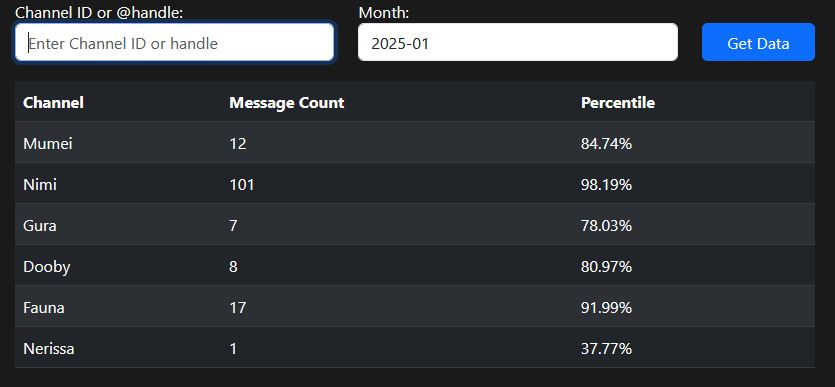
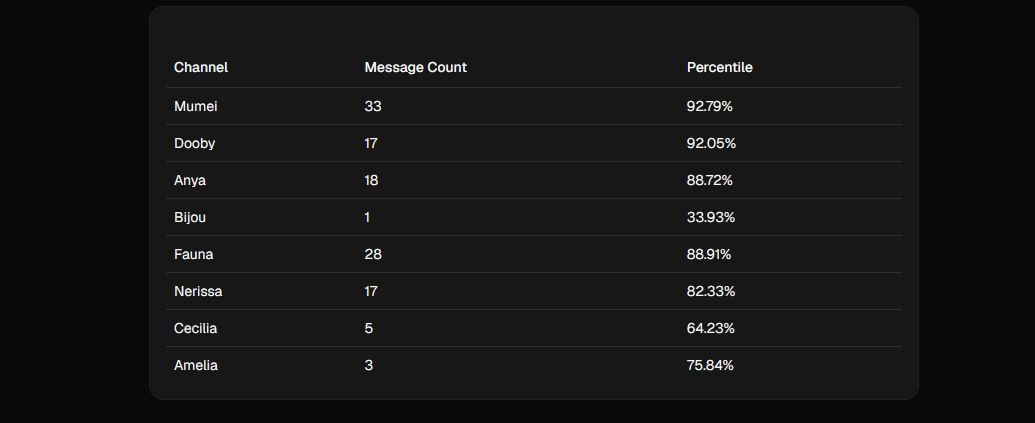
Update frontpage thumbnails, Improve active live chat handling

diff --git a/handlers/download.py b/handlers/download.py
@@ -18,8 +18,18 @@ DOWNLOAD_LOCK_KEY = 744_211_988
 BUCKET = os.environ["RAW_BUCKET"]
 RETRY_QUEUE = os.environ.get("DOWNLOAD_RETRY_QUEUE_URL")
 PERMANENT = ("members", "not available", "removed", "private", "no chat replay",
-             "no continuation", "live event", "will begin", "age-restricted",
-             "age restricted", "confirm your age")
+             "age-restricted", "age restricted", "confirm your age")
+LIVE_COOLDOWN_ERRORS = (
+    "expecting property name enclosed in double quotes",
+    "expecting value: line 1 column 1",
+    "unterminated string starting at",
+    "ytinitialdata not found",
+    "no continuation found",
+    "non-json payload",
+    "live event",
+    "will begin",
+    "page needs to be reloaded",
+)
 # Chat replay pagination ending is the authoritative completion signal. This
 # threshold only controls a diagnostic warning; quiet tails never fail a job.
 REPLAY_END_SILENCE_SECONDS = 15 * 60
@@ -121,6 +131,9 @@ def _process(msg, context):
         cur.execute("""SELECT j.status, j.continuation, j.part_count, j.attempts,
                               j.last_offset_s, j.video_duration_s,
                               COALESCE(j.messages_downloaded, 0),
+                              j.next_attempt_at,
+                              (j.next_attempt_at IS NOT NULL
+                               AND j.next_attempt_at > NOW()) AS cooling_down,
                               EXTRACT(EPOCH FROM (
                                   v.end_time - COALESCE(
                                       v.duration,
@@ -135,11 +148,25 @@ def _process(msg, context):
             log.warning("no job row; dropping", extra={"video_id": video_id})
             conn.rollback(); return
         (status, continuation, part_count, attempts, last_offset, duration,
-         msgs_before, stored_start_ts) = row
+         msgs_before, next_attempt_at, cooling_down, stored_start_ts) = row
         if status in ("done", "failed", "skipped", "ingesting", "downloaded"):
             log.info("already past download stage", extra={"video_id": video_id,
                                                            "status": status})
             conn.rollback(); return
+        if cooling_down:
+            # This can be an SQS message sent just before a scanner or an
+            # earlier invocation parked the stream.  Consume it and let the
+            # month dispatcher release the durable row after the deadline.
+            cur.execute("""UPDATE ingest_jobs
+                           SET dispatched_at=NULL, lease_id=NULL,
+                               updated_at=NOW()
+                           WHERE video_id=%s AND status='pending'""",
+                        (video_id,))
+            conn.commit()
+            log.info("live stream still cooling down",
+                     extra={"video_id": video_id,
+                            "next_attempt_at": str(next_attempt_at)})
+            return
         # Taking the lease is what makes any previous owner a zombie.
         cur.execute("""UPDATE ingest_jobs
                        SET status='downloading', attempts = attempts + 1,
@@ -155,7 +182,10 @@ def _process(msg, context):
                             duration=duration,
                             player_offset_s=last_offset)
     except Exception as e:
-        return _handle_error(conn, sqs, video_id, channel_id, msg, e)
+        return _handle_error(
+            conn, sqs, video_id, channel_id, msg, e,
+            live_candidate=(part_count == 0 and msgs_before == 0),
+            download_attempts=attempts + 1)
     if not duration and getattr(replay, "duration", None):
         duration = duration or replay.duration
         with conn.cursor() as cur:
@@ -226,7 +256,10 @@ def _process(msg, context):
         return _handle_error(
             conn, sqs, video_id, channel_id,
             {**msg, "video_start_ts": replay.video_start_ts, "resumed": True},
-            e, reset_checkpoint=stale_checkpoint)
+            e, reset_checkpoint=stale_checkpoint,
+            live_candidate=(part_count == 0 and msgs_before == 0
+                            and written == 0 and not buf),
+            download_attempts=attempts + 1)
     if buf:
         written += _flush(s3, channel_id, video_id, part_count, buf)
         part_count += 1
@@ -239,9 +272,10 @@ def _process(msg, context):
                            "quiet_tail_s": int(duration - last_offset)})
     with conn.cursor() as cur:
         cur.execute("""UPDATE ingest_jobs
-                       SET status='downloaded', continuation=NULL, part_count=%s,
+                           SET status='downloaded', continuation=NULL, part_count=%s,
                            last_offset_s=%s, messages_downloaded=%s,
-                           lease_id=NULL, updated_at=NOW(), last_error=NULL
+                           lease_id=NULL, next_attempt_at=NULL,
+                           updated_at=NOW(), last_error=NULL
                        WHERE video_id=%s AND lease_id=%s""",
                     (part_count, last_offset, msgs_before + written, video_id, lease))
         if cur.rowcount == 0:
@@ -290,9 +324,49 @@ def _checkpoint(conn, video_id, lease, continuation, part_count, last_offset, me
     if lost:
         raise LeaseLost(video_id)
 def _handle_error(conn, sqs, video_id, channel_id, msg, exc,
-                  reset_checkpoint=False):
+                  reset_checkpoint=False, live_candidate=False,
+                  download_attempts=0):
     text = str(exc)
-    permanent = any(k in text.lower() for k in PERMANENT)
+    lower = text.lower()
+    if live_candidate and any(marker in lower for marker in LIVE_COOLDOWN_ERRORS):
+        max_cooldowns = max(1, setting("live_cooldown_max_attempts", 6, int))
+        if download_attempts >= max_cooldowns:
+            reason = (f"persistently unavailable live/upcoming chat after "
+                      f"{download_attempts} checks: {text}")
+            with conn.cursor() as cur:
+                cur.execute("""UPDATE ingest_jobs
+                               SET status='skipped', last_error=%s,
+                                   skip_reason=%s, lease_id=NULL,
+                                   next_attempt_at=NULL, completed_at=NOW(),
+                                   updated_at=NOW()
+                               WHERE video_id=%s""",
+                            (reason[:1000], reason[:200], video_id))
+            conn.commit()
+            emit({"DownloadsSkipped": (1, COUNT)}, {"Stage": "download"},
+                 video_id=video_id, error=reason[:200])
+            log.warning("persistently unavailable stream skipped",
+                        extra={"video_id": video_id,
+                               "checks": download_attempts,
+                               "error": text[:200]})
+            return
+        minutes = max(5, setting("live_retry_cooldown_minutes", 120, int))
+        with conn.cursor() as cur:
+            cur.execute("""UPDATE ingest_jobs
+                           SET status='pending', dispatched_at=NULL, lease_id=NULL,
+                               next_attempt_at=NOW() + (%s * INTERVAL '1 minute'),
+                               continuation=NULL, part_count=0, last_offset_s=0,
+                               messages_downloaded=0, last_error=%s,
+                               updated_at=NOW()
+                           WHERE video_id=%s""",
+                        (minutes, text[:1000], video_id))
+        conn.commit()
+        emit({"DownloadsCoolingDown": (1, COUNT)}, {"Stage": "download"},
+             video_id=video_id, cooldown_minutes=minutes, error=text[:200])
+        log.info("active or upcoming chat sent to cooldown",
+                 extra={"video_id": video_id, "cooldown_minutes": minutes,
+                        "error": text[:200]})
+        return
+    permanent = any(k in lower for k in PERMANENT)
     max_retries = setting("max_retries", 5, int)
     # A stale checkpoint repair starts a fresh retry budget because the prior
     # attempts all exercised the same invalid continuation.
@@ -301,7 +375,8 @@ def _handle_error(conn, sqs, video_id, channel_id, msg, exc,
         with conn.cursor() as cur:
             cur.execute("""UPDATE ingest_jobs
                            SET status=%s, last_error=%s, lease_id=NULL,
-                               updated_at=NOW(), completed_at=NOW(), skip_reason=%s
+                               next_attempt_at=NULL, updated_at=NOW(),
+                               completed_at=NOW(), skip_reason=%s
                            WHERE video_id=%s""",
                         ("skipped" if permanent else "failed", text[:1000],
                          text[:200] if permanent else None, video_id))
@@ -320,13 +395,15 @@ def _handle_error(conn, sqs, video_id, channel_id, msg, exc,
             # any higher stale objects are ignored by the new part_count.
             cur.execute("""UPDATE ingest_jobs
                            SET status='pending', last_error=%s, lease_id=NULL,
+                               next_attempt_at=NULL,
                                continuation=NULL, part_count=0,
                                last_offset_s=0, messages_downloaded=0,
                                updated_at=NOW() WHERE video_id=%s""",
                         (text[:1000], video_id))
         else:
             cur.execute("""UPDATE ingest_jobs SET status='pending', last_error=%s,
-                           lease_id=NULL, updated_at=NOW() WHERE video_id=%s""",
+                           lease_id=NULL, next_attempt_at=NULL,
+                           updated_at=NOW() WHERE video_id=%s""",
                         (text[:1000], video_id))
     conn.commit()
     # Keep the message on whichever lane it arrived on.

diff --git a/handlers/scan.py b/handlers/scan.py
@@ -135,6 +135,12 @@ def _scan(msg, context):
                         break
                     newest = max(newest, prior["end_time"])
                     continue
+                if (prior and prior["status"] == "skipped"
+                        and not prior["end_time"] and not recheck_skip):
+                    # Terminal non-starters have no trustworthy end time and
+                    # therefore no videos row. Do not spend a metadata lookup
+                    # on them during every later discovery pass.
+                    continue
                 try:
                     video_data = cd.get_video_data(video_id=video_id)
                 except Exception as e:
@@ -144,6 +150,19 @@ def _scan(msg, context):
                     log.warning("get_video_data failed",
                                 extra={"video_id": video_id, "error": str(e)[:200]})
                     lookup_errors.append(f"{video_id}: {str(e)[:160]}")
+                    continue
+                disposition, reason = _stream_disposition(video_data, cfg)
+                if disposition == "skip":
+                    _mark_skipped(conn, channel_id, video_id, reason,
+                                  override_failed=True)
+                    log.info("non-starting stream skipped",
+                             extra={"video_id": video_id, "reason": reason})
+                    continue
+                if disposition == "cooldown":
+                    _cooldown_job(conn, video_id, reason,
+                                  int(cfg.get("live_retry_cooldown_minutes", 120)))
+                    log.info("active or upcoming stream deferred",
+                             extra={"video_id": video_id, "reason": reason})
                     continue
                 end_date = _resolve_end_time(item, video_data)
                 if end_date < floor and not recheck_skip:
@@ -244,6 +263,49 @@ def _parse_dt(value):
         return None
     dt = datetime.fromisoformat(value)
     return dt if dt.tzinfo else dt.replace(tzinfo=timezone.utc)
+def _video_datetime(value):
+    if value in (None, ""):
+        return None
+    try:
+        seconds = float(value)
+    except (TypeError, ValueError):
+        return None
+    # chat-downloader returns parsed YouTube dates as Unix microseconds.
+    if abs(seconds) >= 1_000_000_000_000:
+        seconds /= 1_000_000
+    try:
+        return datetime.fromtimestamp(seconds, timezone.utc)
+    except (OverflowError, OSError, ValueError):
+        return None
+def _stream_disposition(video_data, cfg, now=None):
+    """Return (action, reason) for a non-past YouTube broadcast.
+
+    The downloader remains the fallback guard because watch-page parsing can
+    fail before scan obtains a reliable status.  This early check prevents
+    known live/upcoming broadcasts from becoming download jobs at all.
+    """
+    status = str(video_data.get("status") or "").lower()
+    if status not in ("live", "upcoming"):
+        return "process", None
+    now = now or datetime.now(timezone.utc)
+    start = _video_datetime(video_data.get("start_time"))
+    if start is None:
+        return "skip", f"{status} stream has no configured start time"
+    if status == "upcoming":
+        future_days = max(1, int(cfg.get("future_stream_max_days", 30)))
+        grace_hours = max(1, int(cfg.get("upcoming_start_grace_hours", 12)))
+        if start > now + timedelta(days=future_days):
+            return "skip", (f"scheduled start is more than {future_days} days "
+                            "in the future")
+        if start < now - timedelta(hours=grace_hours):
+            return "skip", (f"scheduled start passed more than {grace_hours} "
+                            "hours ago without going live")
+        return "cooldown", f"upcoming stream scheduled for {start.isoformat()}"
+    max_hours = max(1, int(cfg.get("max_live_stream_hours", 48)))
+    if start < now - timedelta(hours=max_hours):
+        return "skip", (f"stream remained live/offline for more than "
+                        f"{max_hours} hours")
+    return "cooldown", f"stream is still live (started {start.isoformat()})"
 def _resolve_end_time(item, video_data):
     end_raw = video_data.get("end_time")
     if end_raw:
@@ -308,6 +370,7 @@ def _upsert_and_claim(conn, channel_id, video_id, title, end_date, duration,
                        part_count=0, last_offset_s=0, messages_downloaded=0,
                        lease_id=NULL, reaped_count=0, message_count=NULL,
                        skip_reason=NULL, last_error=NULL, dispatched_at=NULL,
+                       next_attempt_at=NULL,
                        enqueued_at=NOW(), started_at=NULL, completed_at=NULL,
                        updated_at=NOW(), video_duration_s=%s, s3_prefix=%s
                  WHERE video_id=%s AND status='skipped'
@@ -316,7 +379,24 @@ def _upsert_and_claim(conn, channel_id, video_id, title, end_date, duration,
             claimed = cur.fetchone() is not None
     conn.commit()
     return claimed
-def _mark_skipped(conn, channel_id, video_id, reason):
+def _cooldown_job(conn, video_id, reason, minutes):
+    """Park an already-discovered job without creating a new one.
+
+    A metadata check can also recover failures created by the old hot-retry
+    behavior. Once YouTube reports the stream as past, discovery stops
+    extending the deadline and the dispatcher releases it normally.
+    """
+    with conn.cursor() as cur:
+        cur.execute("""
+            UPDATE ingest_jobs
+               SET status='pending', attempts=0, dispatched_at=NULL,
+                   lease_id=NULL, completed_at=NULL, skip_reason=NULL,
+                   next_attempt_at=NOW() + (%s * INTERVAL '1 minute'),
+                   last_error=%s, updated_at=NOW()
+             WHERE video_id=%s AND status IN ('pending', 'failed')
+        """, (max(5, minutes), reason[:500], video_id))
+    conn.commit()
+def _mark_skipped(conn, channel_id, video_id, reason, override_failed=False):
     with conn.cursor() as cur:
         cur.execute("""
             INSERT INTO ingest_jobs (video_id, channel_id, status, skip_reason,
@@ -324,10 +404,18 @@ def _mark_skipped(conn, channel_id, video_id, reason):
             VALUES (%s, %s, 'skipped', %s, NOW())
             ON CONFLICT (video_id) DO UPDATE
               SET status = CASE WHEN ingest_jobs.status = 'pending'
+                                      OR (%s AND ingest_jobs.status = 'failed')
                                 THEN 'skipped' ELSE ingest_jobs.status END,
                   skip_reason = COALESCE(ingest_jobs.skip_reason, EXCLUDED.skip_reason),
+                  next_attempt_at = CASE WHEN ingest_jobs.status = 'pending'
+                                              OR (%s AND ingest_jobs.status = 'failed')
+                                         THEN NULL ELSE ingest_jobs.next_attempt_at END,
+                  completed_at = CASE WHEN ingest_jobs.status = 'pending'
+                                           OR (%s AND ingest_jobs.status = 'failed')
+                                      THEN NOW() ELSE ingest_jobs.completed_at END,
                   updated_at = NOW()
-        """, (video_id, channel_id, reason[:200]))
+        """, (video_id, channel_id, reason[:200], override_failed,
+              override_failed, override_failed))
     conn.commit()
 def _record_error(conn, channel_id, message):
     conn.rollback()

diff --git a/common/dispatch.py b/common/dispatch.py
@@ -54,7 +54,9 @@ def run(cfg):
         cur.execute("""
             SELECT date_trunc('month', v.end_time)::date AS month,
                    COUNT(*) FILTER (WHERE j.status='pending'
-                                      AND j.dispatched_at IS NULL) AS waiting,
+                                      AND j.dispatched_at IS NULL
+                                      AND (j.next_attempt_at IS NULL
+                                           OR j.next_attempt_at <= NOW())) AS waiting,
                    COUNT(*) FILTER (WHERE j.status='pending'
                                       AND j.dispatched_at IS NOT NULL) AS in_queue,
                    COUNT(*) FILTER (WHERE j.status IN ('downloading','downloaded',
@@ -87,9 +89,10 @@ def run(cfg):
             SELECT j.video_id, j.channel_id
             FROM ingest_jobs j JOIN videos v USING (video_id)
             WHERE j.status='pending' AND j.dispatched_at IS NULL
+              AND (j.next_attempt_at IS NULL OR j.next_attempt_at <= NOW())
               AND v.end_time >= %s::date
               AND v.end_time <  (%s::date + INTERVAL '1 month')
-            ORDER BY v.end_time ASC
+            ORDER BY (j.next_attempt_at IS NOT NULL) ASC, v.end_time ASC
             LIMIT %s FOR UPDATE OF j SKIP LOCKED""", (month, month, batch))
         jobs = cur.fetchall()
         if jobs:

diff --git a/tests/test_production_config.py b/tests/test_production_config.py
@@ -125,7 +125,9 @@ class ProductionConfigTests(unittest.TestCase):
         self.assertIn("requests.exceptions.HTTPError", youtube)
         self.assertIn('response.headers.get("Retry-After")', youtube)
         self.assertIn("REPLAY_END_SILENCE_SECONDS = 15 * 60", download)
-        self.assertIn('"live event", "will begin"', download)
+        self.assertIn("LIVE_COOLDOWN_ERRORS", download)
+        self.assertIn("DownloadsCoolingDown", download)
+        self.assertIn("next_attempt_at", download)
         self.assertIn('"age-restricted"', download)
         self.assertIn('"confirm your age"', download)
         self.assertIn('"video_start_ts": replay.video_start_ts', download)

diff --git a/handlers/admin.py b/handlers/admin.py
@@ -732,6 +732,7 @@ def _retry_failed(video_id=None):
                                messages_downloaded=CASE WHEN %s THEN 0
                                                         ELSE messages_downloaded END,
                                last_error=NULL, completed_at=NULL,
+                               next_attempt_at=NULL,
                                dispatched_at=NOW(), updated_at=NOW()
                            WHERE video_id=%s""",
                         (target, reset, reset, part_count, reset, reset, job_id))

diff --git a/handlers/migrate.py b/handlers/migrate.py
@@ -307,7 +307,8 @@ def retry_cookie_failures():
                     OR last_error ILIKE '%%Bad Request%%'
                   THEN 0 ELSE messages_downloaded END,
                 last_error=NULL,
-                completed_at=NULL, lease_id=NULL, updated_at=NOW()
+                completed_at=NULL, lease_id=NULL, next_attempt_at=NULL,
+                updated_at=NOW()
             WHERE status='failed'
               AND (last_error ILIKE '%%sign in to confirm%%not a bot%%'
                    OR last_error ILIKE '%%cookie%%'
